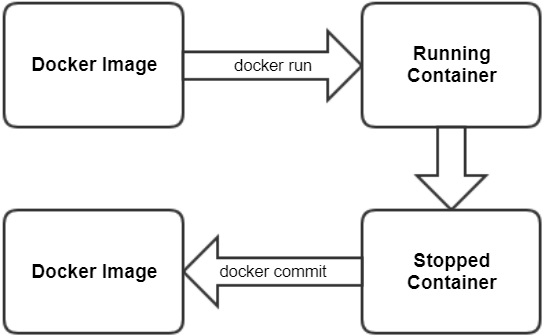
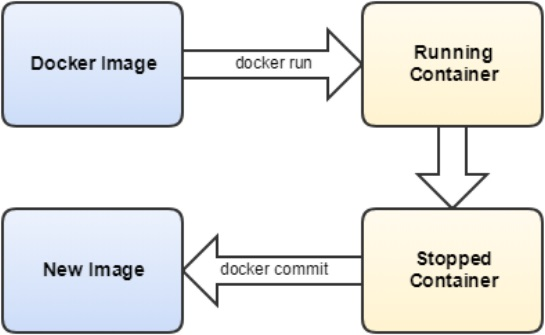
remove images / containers

diff --git a/docker/README.md b/docker/README.md
@@ -199,3 +199,78 @@ The "Status" of stopped container can give you a clue why it was stopped.
 For example, in above case the status is "Exited (0)" which means container was stopped without any errors.
 
 ### Container to Image
+All the changes done inside a running container remain in the stopped container. But the original docker image from which the container was created does not change.
+
+We can create a new image from a stopped container.
+
+![Docker Flow](https://raw.githubusercontent.com/yogeshrnaik/DevOps/master/docker/images/docker-flow.jpg)
+
+Create a new image from a stopped container.
+ 1. Lets launch a container first
+ 2. Then create a new file inside the container
+ 3. Stop the container
+ 4. Use docker commit to create new image from the stopped container
+
+```
+naiky@IN1WXL-301034 MINGW64 /c/DDrive/tools/Docker Toolbox
+$ docker run -ti ubuntu:latest bash
+
+root@a84c1e236c44:/# ls
+bin  boot  dev  etc  home  lib  lib64  media  mnt  opt  proc  root  run  sbin  srv  sys  tmp  usr  var
+
+root@a84c1e236c44:/# touch MY-SAMPLE-FILE.txt
+
+root@a84c1e236c44:/# ls
+MY-SAMPLE-FILE.txt  bin  boot  dev  etc  home  lib  lib64  media  mnt  opt  proc  root  run  sbin  srv  sys  tmp  usr  var
+
+root@a84c1e236c44:/# exit
+
+$ docker ps -l
+CONTAINER ID        IMAGE               COMMAND             CREATED             STATUS                     PORTS               NAMES
+a84c1e236c44        ubuntu:latest       "bash"              24 seconds ago      Exited (0) 4 seconds ago                       quizzical_wozniak
+
+$ docker commit a84c1e236c44
+sha256:788c2d98f4fc32973935056b682395c9cea2cba79d9f3da1f78dbbd1b94917c5
+```
+Docker has created a very big number for the new image which is not very convenient.
+
+We can use the "tag" command to give name to image.
+```
+$ docker tag 788c2d98f4fc32973935056b682395c9cea2cba79d9f3da1f78dbbd1b94917c5 my-sample-image
+
+$ docker images
+REPOSITORY          TAG                 IMAGE ID            CREATED             SIZE
+my-sample-image     latest              788c2d98f4fc        3 minutes ago       81.2MB
+hello-world         latest              e38bc07ac18e        3 months ago        1.85kB
+
+$ docker run -ti my-sample-image bash
+root@e00d28c69fc9:/# ls
+MY-SAMPLE-FILE.txt  bin  boot  dev  etc  home  lib  lib64  media  mnt  opt  proc  root  run  sbin  srv  sys  tmp  usr  var
+
+root@e00d28c69fc9:/# exit
+```
+Creating image from a stopped container and given the new image a name can be done in a single command as follows.
+```
+$ docker commit <CONTAINER_ID> <NEW_IMAGE_NAME>
+OR
+$ docker commit <CONTAINER_NAME> <NEW_IMAGE_NAME>
+```
+
+### Deleting Stopped containers and images from local
+You can delete an image from local using following command.
+```
+$ docker rmi <Image_ID OR Image_Tag>
+```
+If an image is associated with a stopped container then you will get error:
+```
+$ docker rmi 1bb98ca599a5 7848ab4c11d0 2fd06b8310ca
+Error response from daemon: conflict: unable to delete 1bb98ca599a5 (must be forced) - image is being used by stopped container 2c59b05df02c
+Error response from daemon: conflict: unable to delete 7848ab4c11d0 (must be forced) - image is being used by stopped container 969a86182e8a
+Error response from daemon: conflict: unable to delete 2fd06b8310ca (cannot be forced) - image has dependent child images
+```
+In this case, we have to delete the stopped container first and then we can delete the image.
+
+To delete container, use following command.
+```
+$ docker rm <ID_or_Name_of_Container> <ID_or_Name_of_Container>
+```
